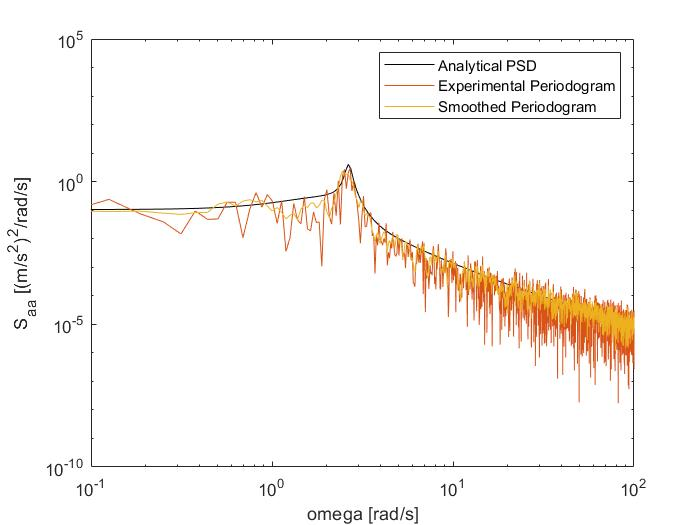
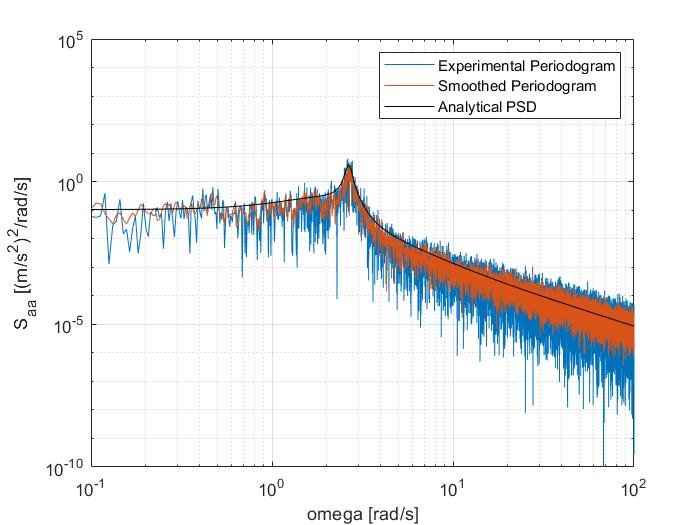
final

diff --git a/Ch_3_spectral_analysis.m b/Ch_3_spectral_analysis.m
@@ -84,34 +84,41 @@ pay_r = pay_r/2;
 % prbv_psd_c= (    pRbv_c.*conj(pRbv_c));
 % pay_psd_c = (    pay_c.*conj(pay_c));
 figure(9)
-subplot(2,1,1); loglog(w,Sxx(:,1),'k',omega,beta_psd_c (1:N/2),'-',omega,pBETA_c(2:N/2+1)) 
+subplot(2,1,1); loglog(omega,beta_psd_c (1:N/2),'-',omega,pBETA_c(2:N/2+1),w,Sxx(:,1),'k') 
 axis(10.^[-1 2 -12 -2]); xlabel('omega [rad/s]'); ylabel('S_\beta_\beta_c[rad^2/rad/s]');
-legend('Analytical PSD', 'Experimental Periodogram','Smoothed Periodogram')
-subplot(2,1,2); loglog(w,Sxx_r(:,1),'k',omega,beta_psd_r(1:N/2),'-',omega,pBETA_r(2:N/2+1))
+legend('Experimental Periodogram','Smoothed Periodogram','Analytical PSD')
+grid on
+subplot(2,1,2); loglog(omega,beta_psd_r(1:N/2),'-',omega,pBETA_r(2:N/2+1),w,Sxx_r(:,1),'k')
 axis(10.^[-1 2 -12 -2]); xlabel('omega [rad/s]'); ylabel('S_\beta_\beta_r[rad^2/rad/s] ')
-legend('Analytical PSD', 'Experimental Periodogram','Smoothed Periodogram')
+legend('Experimental Periodogram','Smoothed Periodogram','Analytical PSD')
+grid on
 
 figure(10)
-subplot(2,1,1); loglog(w,Sxx(:,2),'k',omega,phi_psd_c(1:N/2),'-',omega,pPhi_c(2:N/2+1));
+subplot(2,1,1); loglog(omega,phi_psd_c(1:N/2),'-',omega,pPhi_c(2:N/2+1),w,Sxx(:,2),'k');
 axis(10.^[-1 2 -12 0]); xlabel('omega [rad/s]'); ylabel('S_\phi_\phi_c [rad^2/rad/s]')
-legend('Analytical PSD', 'Experimental Periodogram','Smoothed Periodogram')
-subplot(2,1,2); loglog(w,Sxx(:,3),'k',omega,pbv_psd_c(1:N/2),'-',omega,pPbv_c(2:N/2+1));
+legend('Experimental Periodogram','Smoothed Periodogram','Analytical PSD')
+grid on
+subplot(2,1,2); loglog(omega,pbv_psd_c(1:N/2),'-',omega,pPbv_c(2:N/2+1),w,Sxx(:,3),'k');
 axis(10.^[-1 2 -12 -2]); xlabel('omega [rad/s]'); ylabel('S_p_p [rad^2/rad/s]')
-legend('Analytical PSD', 'Experimental Periodogram','Smoothed Periodogram')
+legend('Experimental Periodogram','Smoothed Periodogram','Analytical PSD')
+grid on
 
 figure(11)
 subplot(2,1,1)
-loglog(w,Sxx(:,4),'k',omega,rbv_psd_c(1:N/2),'-',omega,pRbv_c(2:N/2+1));
+loglog(omega,rbv_psd_c(1:N/2),'-',omega,pRbv_c(2:N/2+1),w,Sxx(:,4),'k');
 axis(10.^[-1 2 -12 -2]); xlabel('omega [rad/s]'); ylabel('S_r_r_c [rad^2/rad/s]')
-legend('Analytical PSD', 'Periodogram','Smoothed Periodogram')
-subplot(2,1,2); loglog(w,Sxx_r(:,2),'k',omega,rbv_psd_r(1:N/2),'-',omega,pRbv_r(2:N/2+1));
+legend('Experimental Periodogram','Smoothed Periodogram','Analytical PSD')
+grid on
+subplot(2,1,2); loglog(omega,rbv_psd_r(1:N/2),'-',omega,pRbv_r(2:N/2+1),w,Sxx_r(:,2),'k');
 axis(10.^[-1 2 -12 -2]); xlabel('omega [rad/s]'); ylabel('S_r_r_r [rad^2/rad/s]')
-legend('Analytical PSD', 'Experimental Periodogram','Smoothed Periodogram')
+legend('Experimental Periodogram','Smoothed Periodogram','Analytical PSD')
+grid on
 
 figure(12)
-loglog(w,Sxx(:,5),'k',omega,ay_psd_c(1:N/2),'-',omega,pay_c(2:N/2+1));
+loglog(omega,ay_psd_c(1:N/2),'-',omega,pay_c(2:N/2+1),w,Sxx(:,5),'k');
 axis(10.^[-1 2 -10 5]); xlabel('omega [rad/s]'); ylabel('S_a_a [(m/s^2)^2/rad/s]')
-legend('Analytical PSD', 'Experimental Periodogram','Smoothed Periodogram')
+legend('Experimental Periodogram','Smoothed Periodogram','Analytical PSD')
+grid on
 % subplot(2,1,2); 
 % loglog(w,Sxx_r(:,3),'k',omega,ay_psd_r(1:N/2),'-',omega,pay_r(2:N/2+1));
 % axis(10.^[-1 2 -10 5]); xlabel('omega [rad/s]'); ylabel('S_a_a [(m/s^2)^2/rad/s]')

diff --git a/Ch_4_variance.m b/Ch_4_variance.m
@@ -7,22 +7,25 @@ var__pbv_c = sum(Sxx(:,3)'.*dw)/pi
 var__rbv_c = sum(Sxx(:,4)'.*dw)/pi
 var__ay_c = sum(Sxx(:,5)'.*dw)/pi
 
+ana = [var__beta_c var__phi_c var__pbv_c var__rbv_c var__ay_c];
+
 var__beta_r = sum(Sxx_r(:,1)'.*dw)/pi
 var__rbv_r = sum(Sxx_r(:,2)'.*dw)/pi
+
+ana_r = [var__beta_r var__rbv_r];
 %var__ay_r = sum(Sxx_r(:,3)'.*dw)/pi
 %% var.m
-vbeta_c  = var(yt1(:,1))
+vbeta_c  = var(beta_c)
 vphi_c  = var(yt1(:,2))
 vpbv_c  = var(yt1(:,3))
 vrbv_c  = var(yt1(:,4))
-
-
-vay_c  = var(a_y)
+vay_c  = var(a_y);
+var_f = [vbeta_c vphi_c vpbv_c vrbv_c vay_c ];
 %Reduced model
 vbeta_r  = var(ytr1(:,1))
 vrbv_r  = var(ytr1(:,2))
 %vay_r  = var(a_y_r)
-    
+var_r = [vbeta_r vrbv_r ]
 %% lyapunov
 
 
@@ -30,19 +33,23 @@ W = eye(2,2)
 
 %Full Model
 Bl=B(:,4:5);
-L1   = lyap(A2,Bl*W*Bl')
-L   = L1(1:4,1:4)
-var_L = diag(L)'
+L1   = lyap(A2,Bl*W*Bl');
+L   = L1(1:4,1:4);
+var_L = diag(L)';
 
-var_ay = C1(5,:)*L1*C1(5,:)'
+var_ay = C1(5,:)*L1*C1(5,:)';
+lya = [var_L(1) var_L(2) var_L(3) var_L(4) var_ay ];
 
+Full_var = [ana' var_f' lya']
 %Reduced model
 Bl1=Br(:,4:5);
-Lr   = lyap(Ar,Bl1*W*Bl1')
-Lr   = Lr(1:2,1:2)
-var_L_r = diag(Lr)'
+Lr   = lyap(Ar,Bl1*W*Bl1');
+Lr   = Lr(1:2,1:2);
+var_L_r = diag(Lr)';
 
+lya1 = [var_L_r(1) var_L_r(2)];
 
+red_var = [ana_r' var_r' lya1']
 
 
 

diff --git a/Ch_2_time_response.m b/Ch_2_time_response.m
@@ -1,4 +1,4 @@
-dt = 0.005; T  = 100; 
+dt = 0.005; T  = 1000; 
 t = [0:dt:T]; N = length(t);
 nn = zeros(1,N);
 
@@ -37,11 +37,11 @@ yt = y1+y2+y3;
 %xt = x1+x2+x3;
 a_y =  yt(:,5);
  
-y1r = lsim(sys_reduced,u1,t);
+y1r = lsim(Ar,Br,Cr,Dr,u1,t);
 % RESPONSE to v_g
-y2r = lsim(sys_reduced,u2,t);
+y2r = lsim(Ar,Br,Cr,Dr,u2,t);
 % RESPONSE to w_g
-y3r = lsim(sys_reduced,u3,t);
+y3r = lsim(Ar,Br,Cr,Dr,u3,t);
 ytr = y1r+y2r+y3r;
 a_y_r = V*(Ar(1,:)*ytr' +Br(1,:)*u1' + Br(1,:)*u2' + Br(1,:)*u3'+ (2*V/b)*ytr(:,2)');
 
